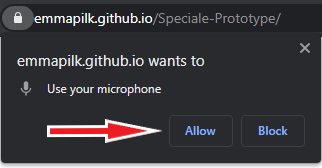
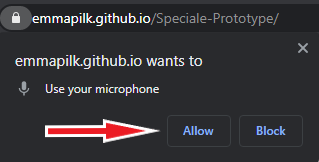
Basic Welcome Page layout Redirect if not first visit

diff --git a/docs/css/style.css b/docs/css/style.css
@@ -1,5 +1,23 @@
+@media only screen and (min-width: 768px) {
+  /* For desktop: */
+  body {
+	 padding-top: 100px; /* Pad top so microphone permission popover does not cover content */
+  }
+}
+
+html, body {
+	background: #111;
+	color: white;
+}
+
+.intro {
+	display: flex;
+	flex-direction: column;
+	align-items: center;
+}
+
 .note {
-	color: #333;
+	color: #ddd;
 	font-style: italic;
 }
 
@@ -9,19 +27,60 @@
 	justify-content: center;
 }
 
-figure.box {
+.box {
 	flex: 1 1;
 	display: flex;
 	flex-direction: column;
 	align-items: center;
 	justify-content: space-between;
-	background: #eee;
+	background: rgba(255,255,255, 0.25);
 	border-radius: 1rem;
-	padding: 1rem 3px;
+	padding: 1rem 3px;	
+}
+
+div.box {
+	justify-content: center;
+	margin-block-start: 1em;
+    margin-block-end: 1em;
+    margin-inline-start: 40px;
+    margin-inline-end: 40px;
+}
+
+button {
+	cursor: pointer;
+	color: white;
+	background-color: #007bff;
+	display: inline-block;
+    font-weight: 400;
+    text-align: center;
+    white-space: nowrap;
+    vertical-align: middle;
+    -webkit-user-select: none;
+    -moz-user-select: none;
+    -ms-user-select: none;
+    user-select: none;
+    border: 1px solid #007bff;
+    padding: .375rem .75rem;
+    font-size: 1rem;
+    line-height: 1.5;
+    border-radius: .25rem;
+	transition: color .15s;
+}
+
+button:hover {
+	background-color: #0069d9;
+	border-color: #0062cc;
+}
+
+button:disabled {
+	cursor: not-allowed;
+	background-color: gray;
+	border-color: gray;
+	opacity: 0.65;
 }
 
 figcaption {
-    background-color: rgba(0,0,0,0.75);
+    background-color: rgba(0,0,0,0.5);
     color: #fff;
     font: italic smaller sans-serif;
     padding: 3px;

diff --git a/docs/js/script.js b/docs/js/script.js
@@ -1,7 +1,47 @@
 var SpeechRecognition = SpeechRecognition || webkitSpeechRecognition
-if(SpeechRecognition) {
+if (SpeechRecognition) {
 	var recognition = new SpeechRecognition();
 	recognition.continuos = true;
 	recognition.interimResults = true;
 	recognition.start();
+} else {
+	var button = document.getElementById('continue');
+	button.innerText = "Your browser is not supported";
+	button.disabled = true;
+}
+
+function nextPage() {
+	createCookie('doRedirect','true','999');
+	window.location = '/app';
+}
+
+function redirect(){
+	var thecookie = readCookie('doRedirect');
+	if(thecookie){
+		nextPage();
+	}
+}
+
+function createCookie(name,value,days){
+	if (days){
+		var date = new Date();
+		date.setTime(date.getTime()+(days*24*60*60*1000));
+		var expires = "; expires="+date.toGMTString();
+	} else var expires = "";
+	document.cookie = name+"="+value+expires+"; path=/";
+}
+
+function readCookie(name){
+	var nameEQ = name + "=";
+	var ca = document.cookie.split(';');
+	for(var i=0;i < ca.length;i++){
+		var c = ca[i];
+		while (c.charAt(0)==' ') c = c.substring(1,c.length);
+		if (c.indexOf(nameEQ) == 0) return c.substring(nameEQ.length,c.length);
+	}
+	return null;
+}
+
+window.onload = function(){
+	redirect();
 }

diff --git a/docs/index.html b/docs/index.html
@@ -12,9 +12,11 @@
 </head>
 
 <body>
+<div class="intro">
 <h1>Speciale Prototype!</h1>
 <p>This website serves as a prototype (proof-of-concept), please consider the following steps so that you receive the optimal experience</p>
 <p class="note">Your audio input will not be stored, in any way.</p>
+</div>
 	<div class="parent">
 			<figure class="box">
 			 <img height="150" src="images/volume.gif" alt="Increase volume indicator">
@@ -23,6 +25,9 @@
 			<figure class="box">
 				<img src="images/Microphone-Permission-Chrome.png" alt="Chrome Microphone Permission Popup">
 				<figcaption>Please allow microphone access on this website, as it is the main input device.</figcaption>
+			</figure>
+			<div class="box">
+				<button onclick="nextPage()" id="continue">Continue</button>
 			</figure>
 	</div>
 	

diff --git a/docs/app/index.html b/docs/app/index.html
@@ -1,0 +1,19 @@
+<!DOCTYPE html>
+<html>
+
+<head>
+	<meta charset="utf-8">
+	<title>Speciale Prototype</title>
+	<meta name="author" content="Emma Pilkington">
+	<meta name="description" content="">
+	<meta name="viewport" content="width=device-width, initial-scale=1">
+
+	<link href="css/style.css" rel="stylesheet">
+</head>
+
+<body>
+<h1>Speciale Prototype!</h1>
+	<script src="js/script.js"></script>
+</body>
+
+</html>
